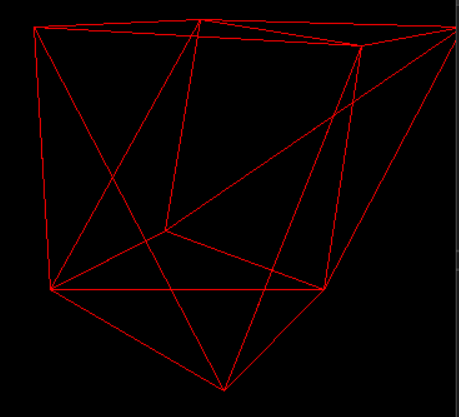
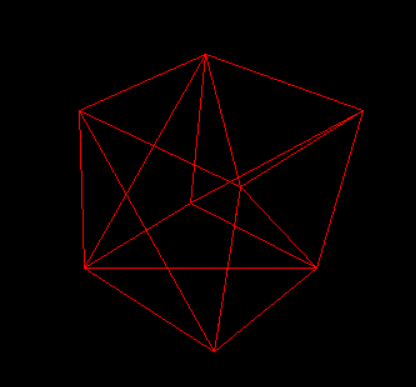
README

diff --git a/ScratchRender/main.cpp b/ScratchRender/main.cpp
@@ -45,12 +45,13 @@ void setup(SDL_Renderer* renderer) {
 	camera = new Camera;
 	camera->zNear = 10;
 	camera->zFar = 200;
-	camera->fov = 3.14159286 / 2;
+	camera->fov = 3.14159286 / 3;
 	camera->dolly(-100);
 	camera->truck(-60);
 	camera->pan(3.1415 / 4);
 	camera->tilt(3.1415 / 4);
 	camera->boom(40);
+	camera->dolly(-100);
 
 	std::cout << camera->center << "\n";
 	std::cout << camera->forward << "\n";
